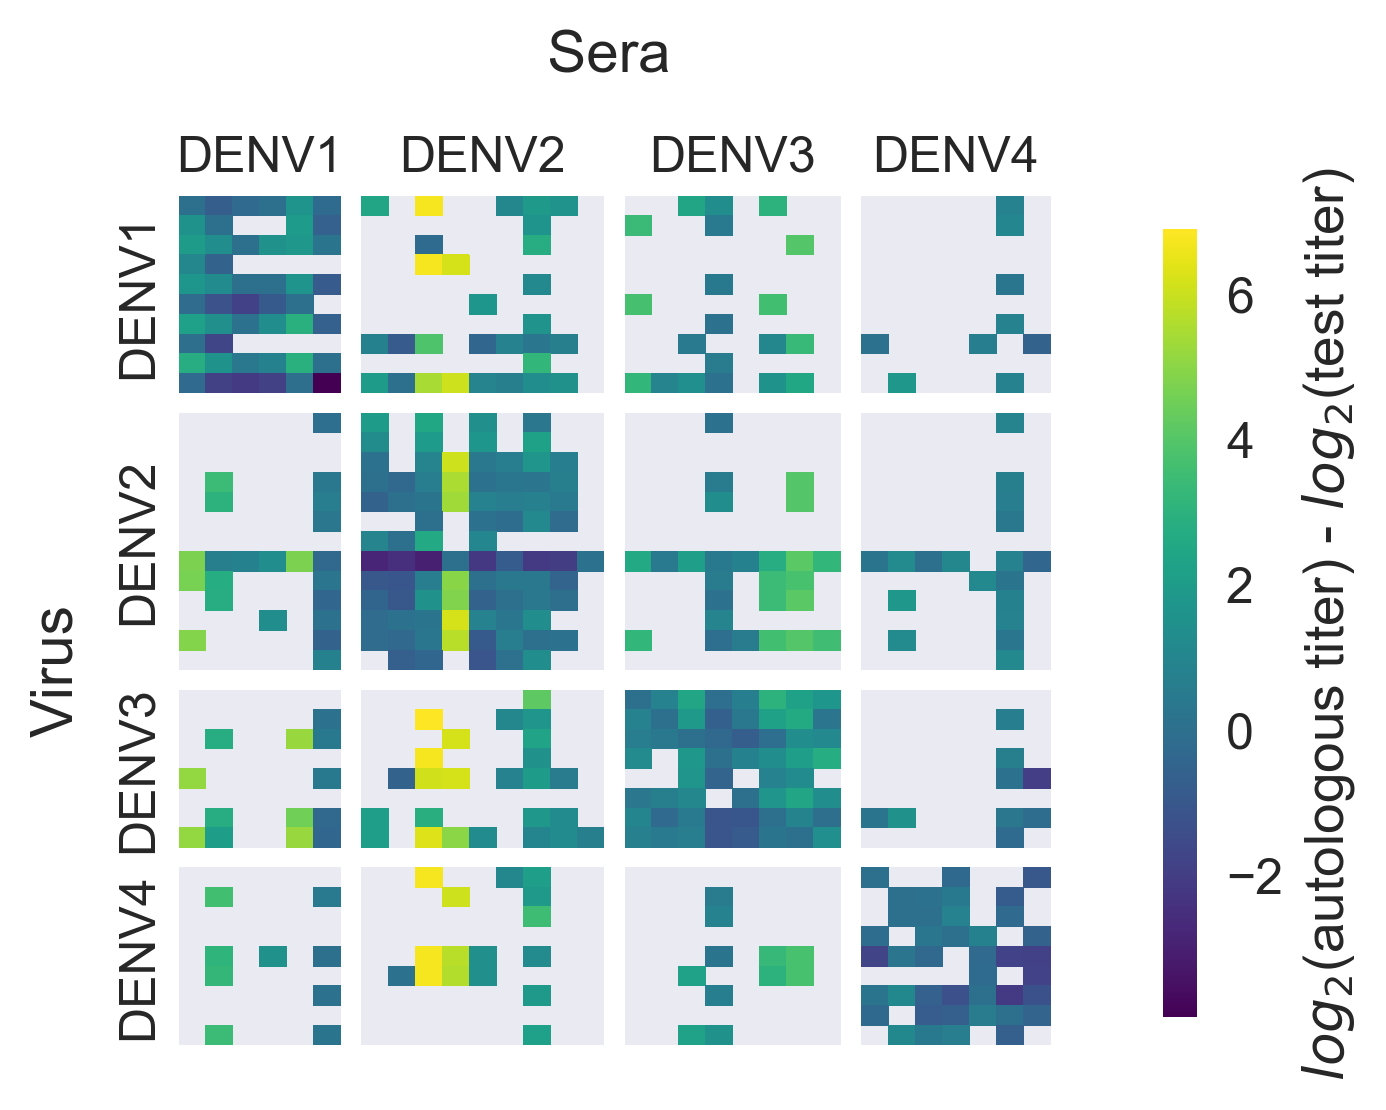
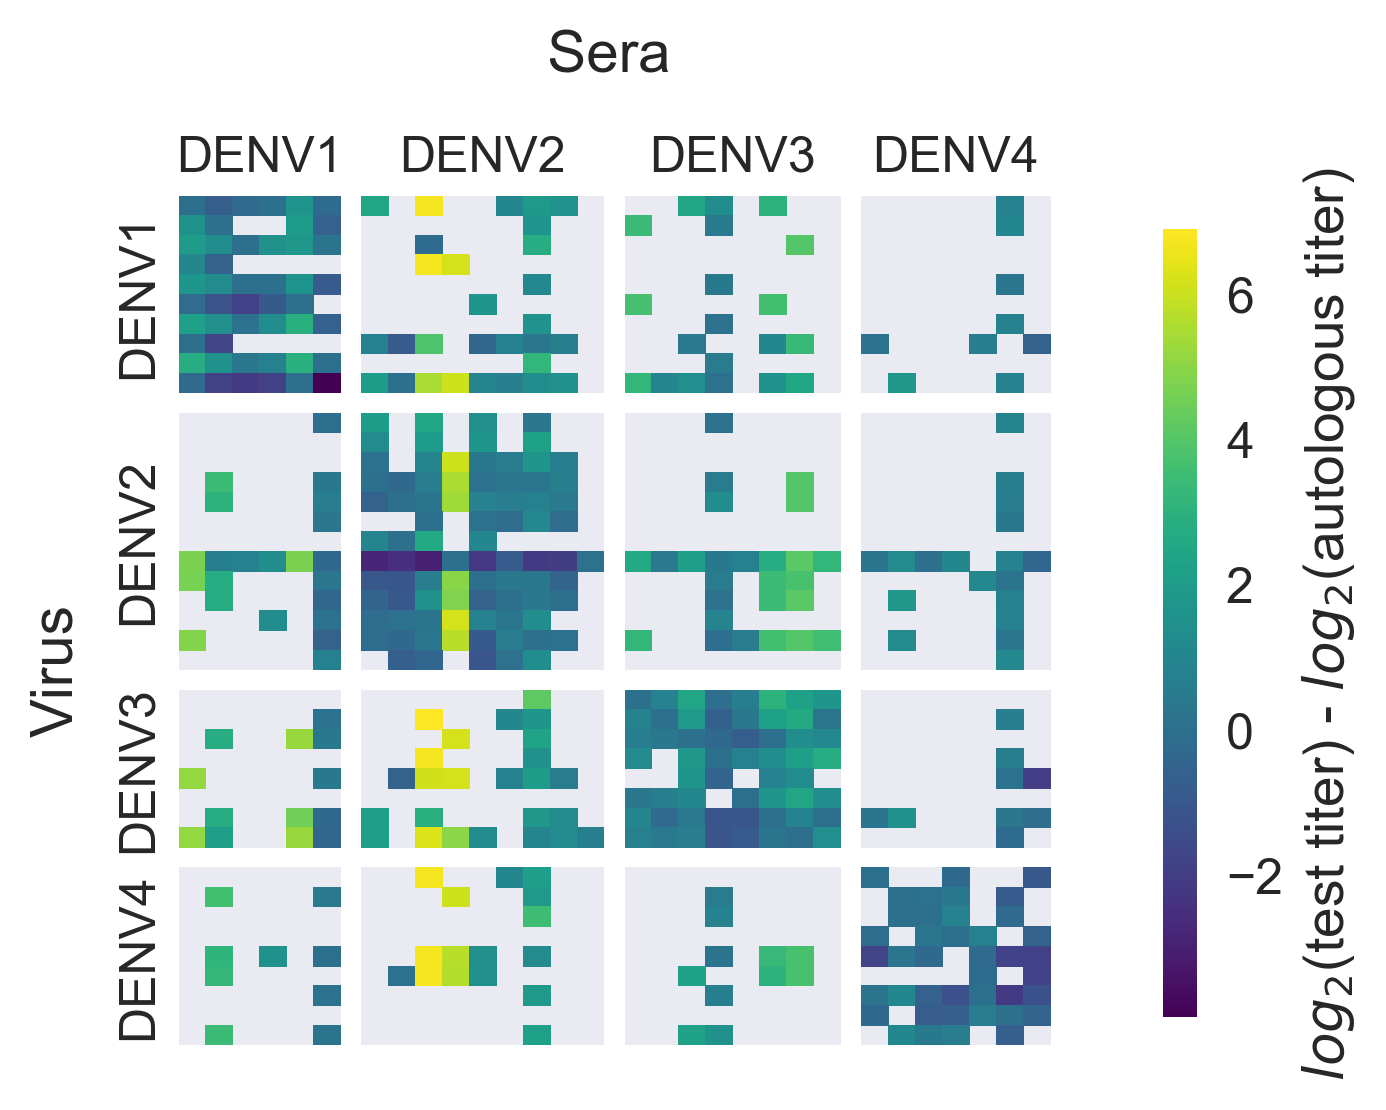
Adjust T_{ij} notation to D_{ij} notation for clarity
Differentiate raw vs normalized titer values

Changed region(s): [[0.9307, 0.245, 0.9928, 0.8577]]

diff --git a/manuscript/dengue-antigenic-evolution.tex b/manuscript/dengue-antigenic-evolution.tex
@@ -101,7 +101,6 @@
 % - Add titer symmetry figure to supplement
 % - Check figure references (esp. for supplement)
 % - Add references
-% - Update T_{ij} -> D_{ij} notation throughout (esp. methods)
 % - Fix antigenic tree labels
 % - Final review of math
 % - Add both trend lines to geno/pheno graph
@@ -405,15 +404,15 @@ As discussed in Katzelnick et al., these two datasets show similar patterns of a
 In total, our dataset includes 47 virus strains, 36 serum strains, and 1182 measurements.
 
 \subsection*{Titer Model}
-We normalize measured titers between virus i and serum j, $T_{ij}$, relative to autologous titers: $$T_{ij} = log_2(T_{ii}) - log_2(T_{ij})$$
+We compute normalized antigenic distance between virus $i$ and serum $j$ (denoted $D_{ij}$) from measured titers relative to autologous titers (denoted $T_{ii}$ and $T_{ij}$, respectively), such that $$D_{ij} = log_2(T_{ii}) - log_2(T_{ij})$$.
 To predict unmeasured titers, we employ the `tree model' from Neher et al. and implemented in Nextstrain, which assumes that antigenic evolution is driven by underlying genetic evolution.
 Observed titer drops are mapped to branches in the viral phylogeny after correcting for overall virus avidity, $v_i$, and serum potency, $p_j$ (row and column effects, respectively):
-$$\hat{T}_{ij} \approx T_{ij} = \sum_{b \in path(i,j)} d_b + v_i + p_j$$
+$$\hat{D}_{ij} \approx D_{ij} = \sum_{b \in path(i,j)} d_b + v_i + p_j$$
 where $d_b$ is the titer drop assigned to each branch, $b$, in the phylogeny.
 We randomly withhold 10\% of titer measurements as a test set.
 We use the remaining 90\% of titer measurements as a training set to learn values for virus avidity, serum potency, and branch effects.
 As in Neher et al., we formulate this as a convex optimization problem and solve for these parameter values to minimize the cost function:
-$$C = \sum_{i,j} (\hat{T}_{ij} - T_{ij})^2 + \lambda \sum_{b} d_b + \gamma \sum_{i} v_i^2 + \delta \sum_{i} p_i^2$$
+$$C = \sum_{i,j} (\hat{D}_{ij} - D_{ij})^2 + \lambda \sum_{b} d_b + \gamma \sum_{i} v_i^2 + \delta \sum_{i} p_i^2$$
 Respectively, these terms represent the squared training error; an L1 regularization term on branch effects, such that most values of $d_b = 0$; and L2 regularization terms on virus avidities and serum potencies, such that they are normally distributed.
 These parameter values are then used to predict the titer distance between all pairs of viruses, $i$ and $j$, in the phylogeny.
 We assess performance by comparing predicted to known titer values in our test data set, and present test error (aggregated from 10-fold cross-validation) throughout the manuscript.
